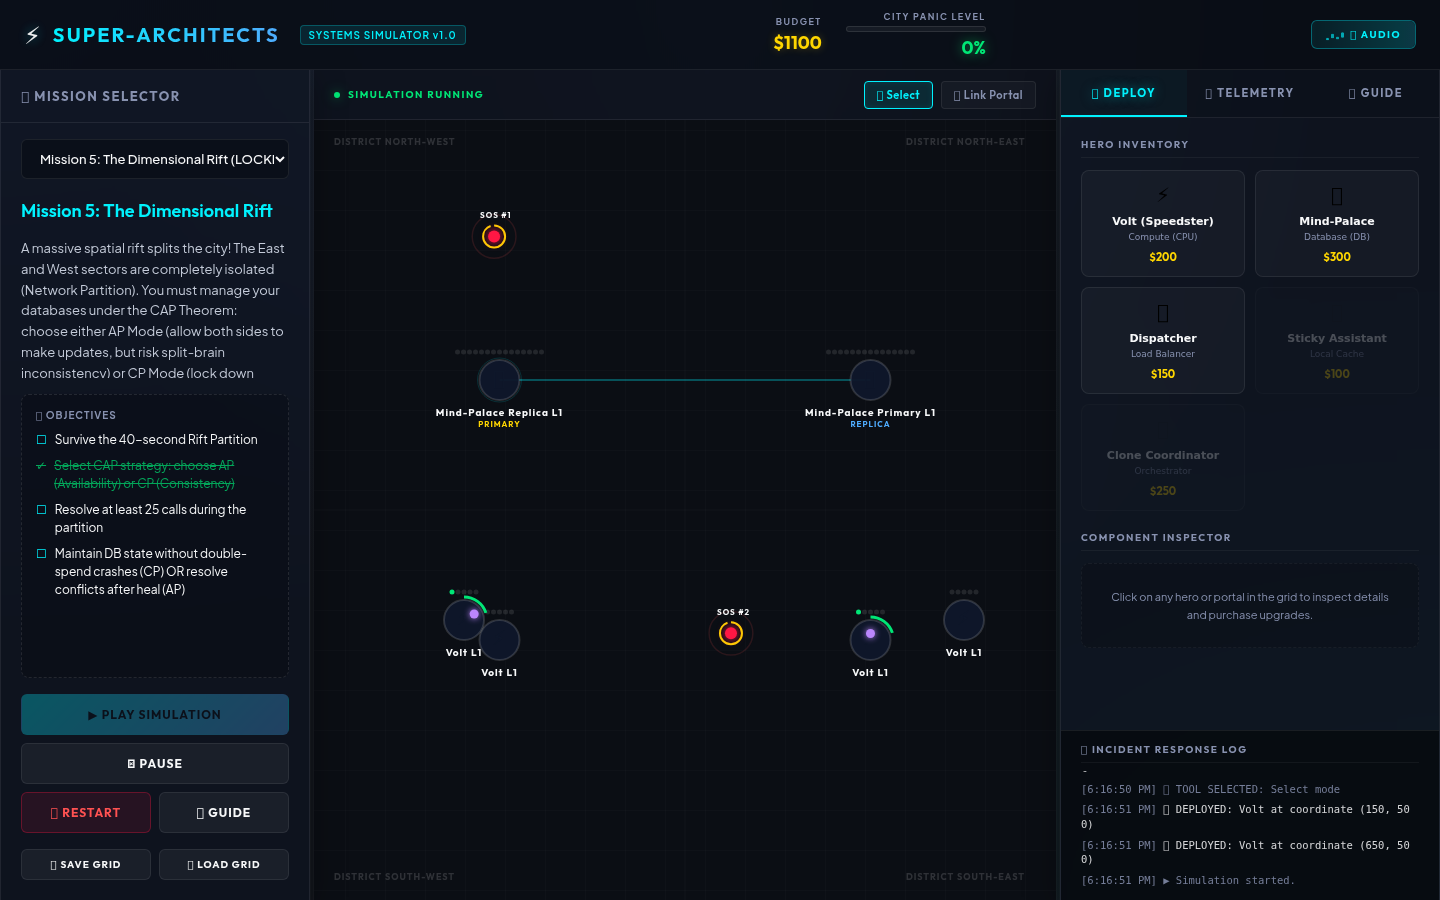
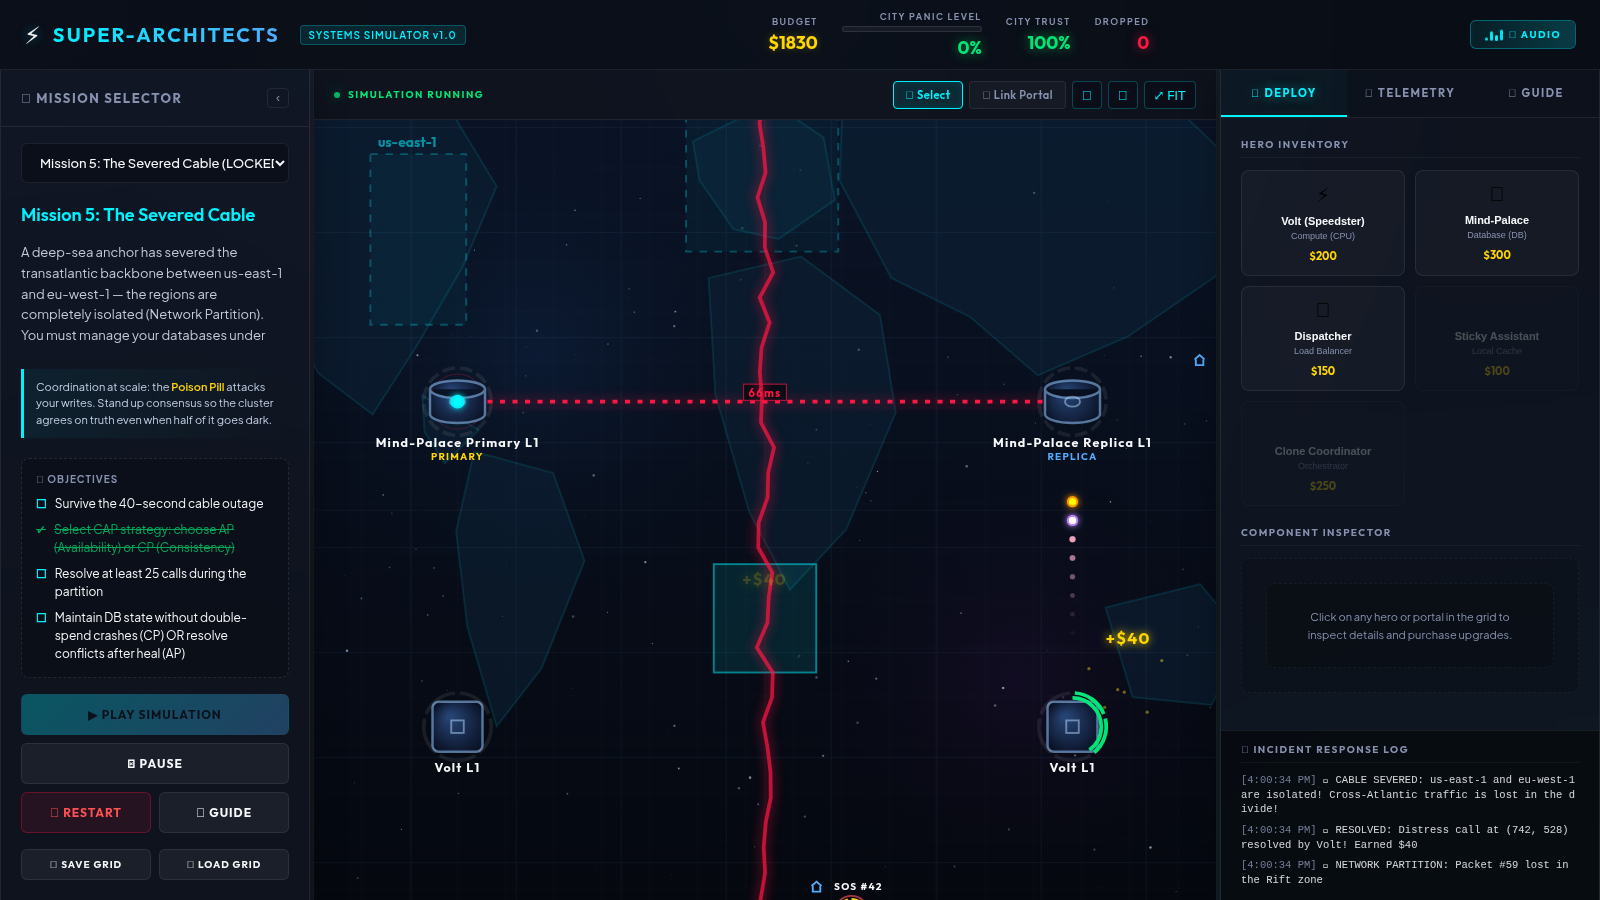
docs: refresh README screengrabs for the geo-pivot game; update L5/L6 mission text
- All 9 screenshots recaptured mid-action: world map + regions, origin
  glyphs, ms latency badges, queue rings, rescue floaters, severed-cable
  rift, Trust/Dropped header strip, camera controls
- Mission 5/6 headings + descriptions match the Severed Cable / Global
  Fleet retheme; alt text updated
- Codebase table gains js/worldmap.js

diff --git a/README.md b/README.md
@@ -90,17 +90,17 @@ Every rescue needs to be written to a database ledger. Volt writes to the Primar
 
 ![Level 4 - Shared File Room](docs/screenshots/level-4.png)
 
-### Mission 5: The Dimensional Rift — *CAP Theorem*
+### Mission 5: The Severed Cable — *CAP Theorem*
 
-A spatial rift cuts the city in two. In **AP Mode** players accept updates in both halves and resolve conflicts after heal. In **CP Mode** databases in the minority partition lock down writes.
+A deep-sea anchor severs the transatlantic backbone between `us-east-1` and `eu-west-1`. In **AP Mode** players accept updates in both regions and resolve conflicts after the cable is repaired. In **CP Mode** databases in the minority partition lock down writes.
 
-![Level 5 - Dimensional Rift](docs/screenshots/level-5.png)
+![Level 5 - Severed Cable](docs/screenshots/level-5.png)
 
-### Mission 6: The Self-Repairing Fleet — *Kubernetes*
+### Mission 6: The Global Fleet — *Kubernetes*
 
-Meteor showers randomly smash speedsters. Players deploy a Clone Coordinator, set a desired state of 4 clones, and watch the system automatically self-heal when nodes are destroyed.
+Meteor storms smash speedsters in every region. Players deploy a Clone Coordinator, set a desired state of 4 clones, and watch the system automatically self-heal when nodes are destroyed — anywhere on the map.
 
-![Level 6 - Self-Repairing Fleet](docs/screenshots/level-6.png)
+![Level 6 - Global Fleet](docs/screenshots/level-6.png)
 
 ---
 
@@ -153,7 +153,8 @@ For engineers or curious students who want to look under the hood, the game is w
 | **`js/renderer.js`** | 341 lines | Canvas vector drawing: animated packets, laser links, meteor shockwaves (visual polish delegated to `fx.js`) |
 | **`js/fx.js`** | ~260 lines | Presentation-only effects: starfield background, deployment grid, diagram node shapes, orthogonal connectors, particle trails/sparks |
 | **`js/topology.js`** | ~190 lines | Read-only graph engine over portals/nodes: pathing, role queries, blueprint validation; routing + Architecture checklist consume it |
-| **`js/camera.js`** | ~90 lines | Viewport pan/zoom transform (world↔screen) + screen-shake juice; never mutates sim |
+| **`js/camera.js`** | ~110 lines | Viewport pan/zoom transform (world↔screen) + screen-shake juice; never mutates sim |
+| **`js/worldmap.js`** | ~100 lines | Geo layer: stylized continent polygons, region zones with level-gated unlocks (`us-east-1`, `eu-west-1`) |
 | **`js/content.js`** | ~90 lines | Scenario DSL loader/validator — turns data scenarios into the sim timeline |
 | **`js/story.js`** | ~40 lines | Per-level narrative hooks + failure-entity bestiary (lore, no logic) |
 | **`js/hud.js`** | ~60 lines | Telemetry dashboard: latency p95, error rate, queue depth, city Trust, SLO pills |
